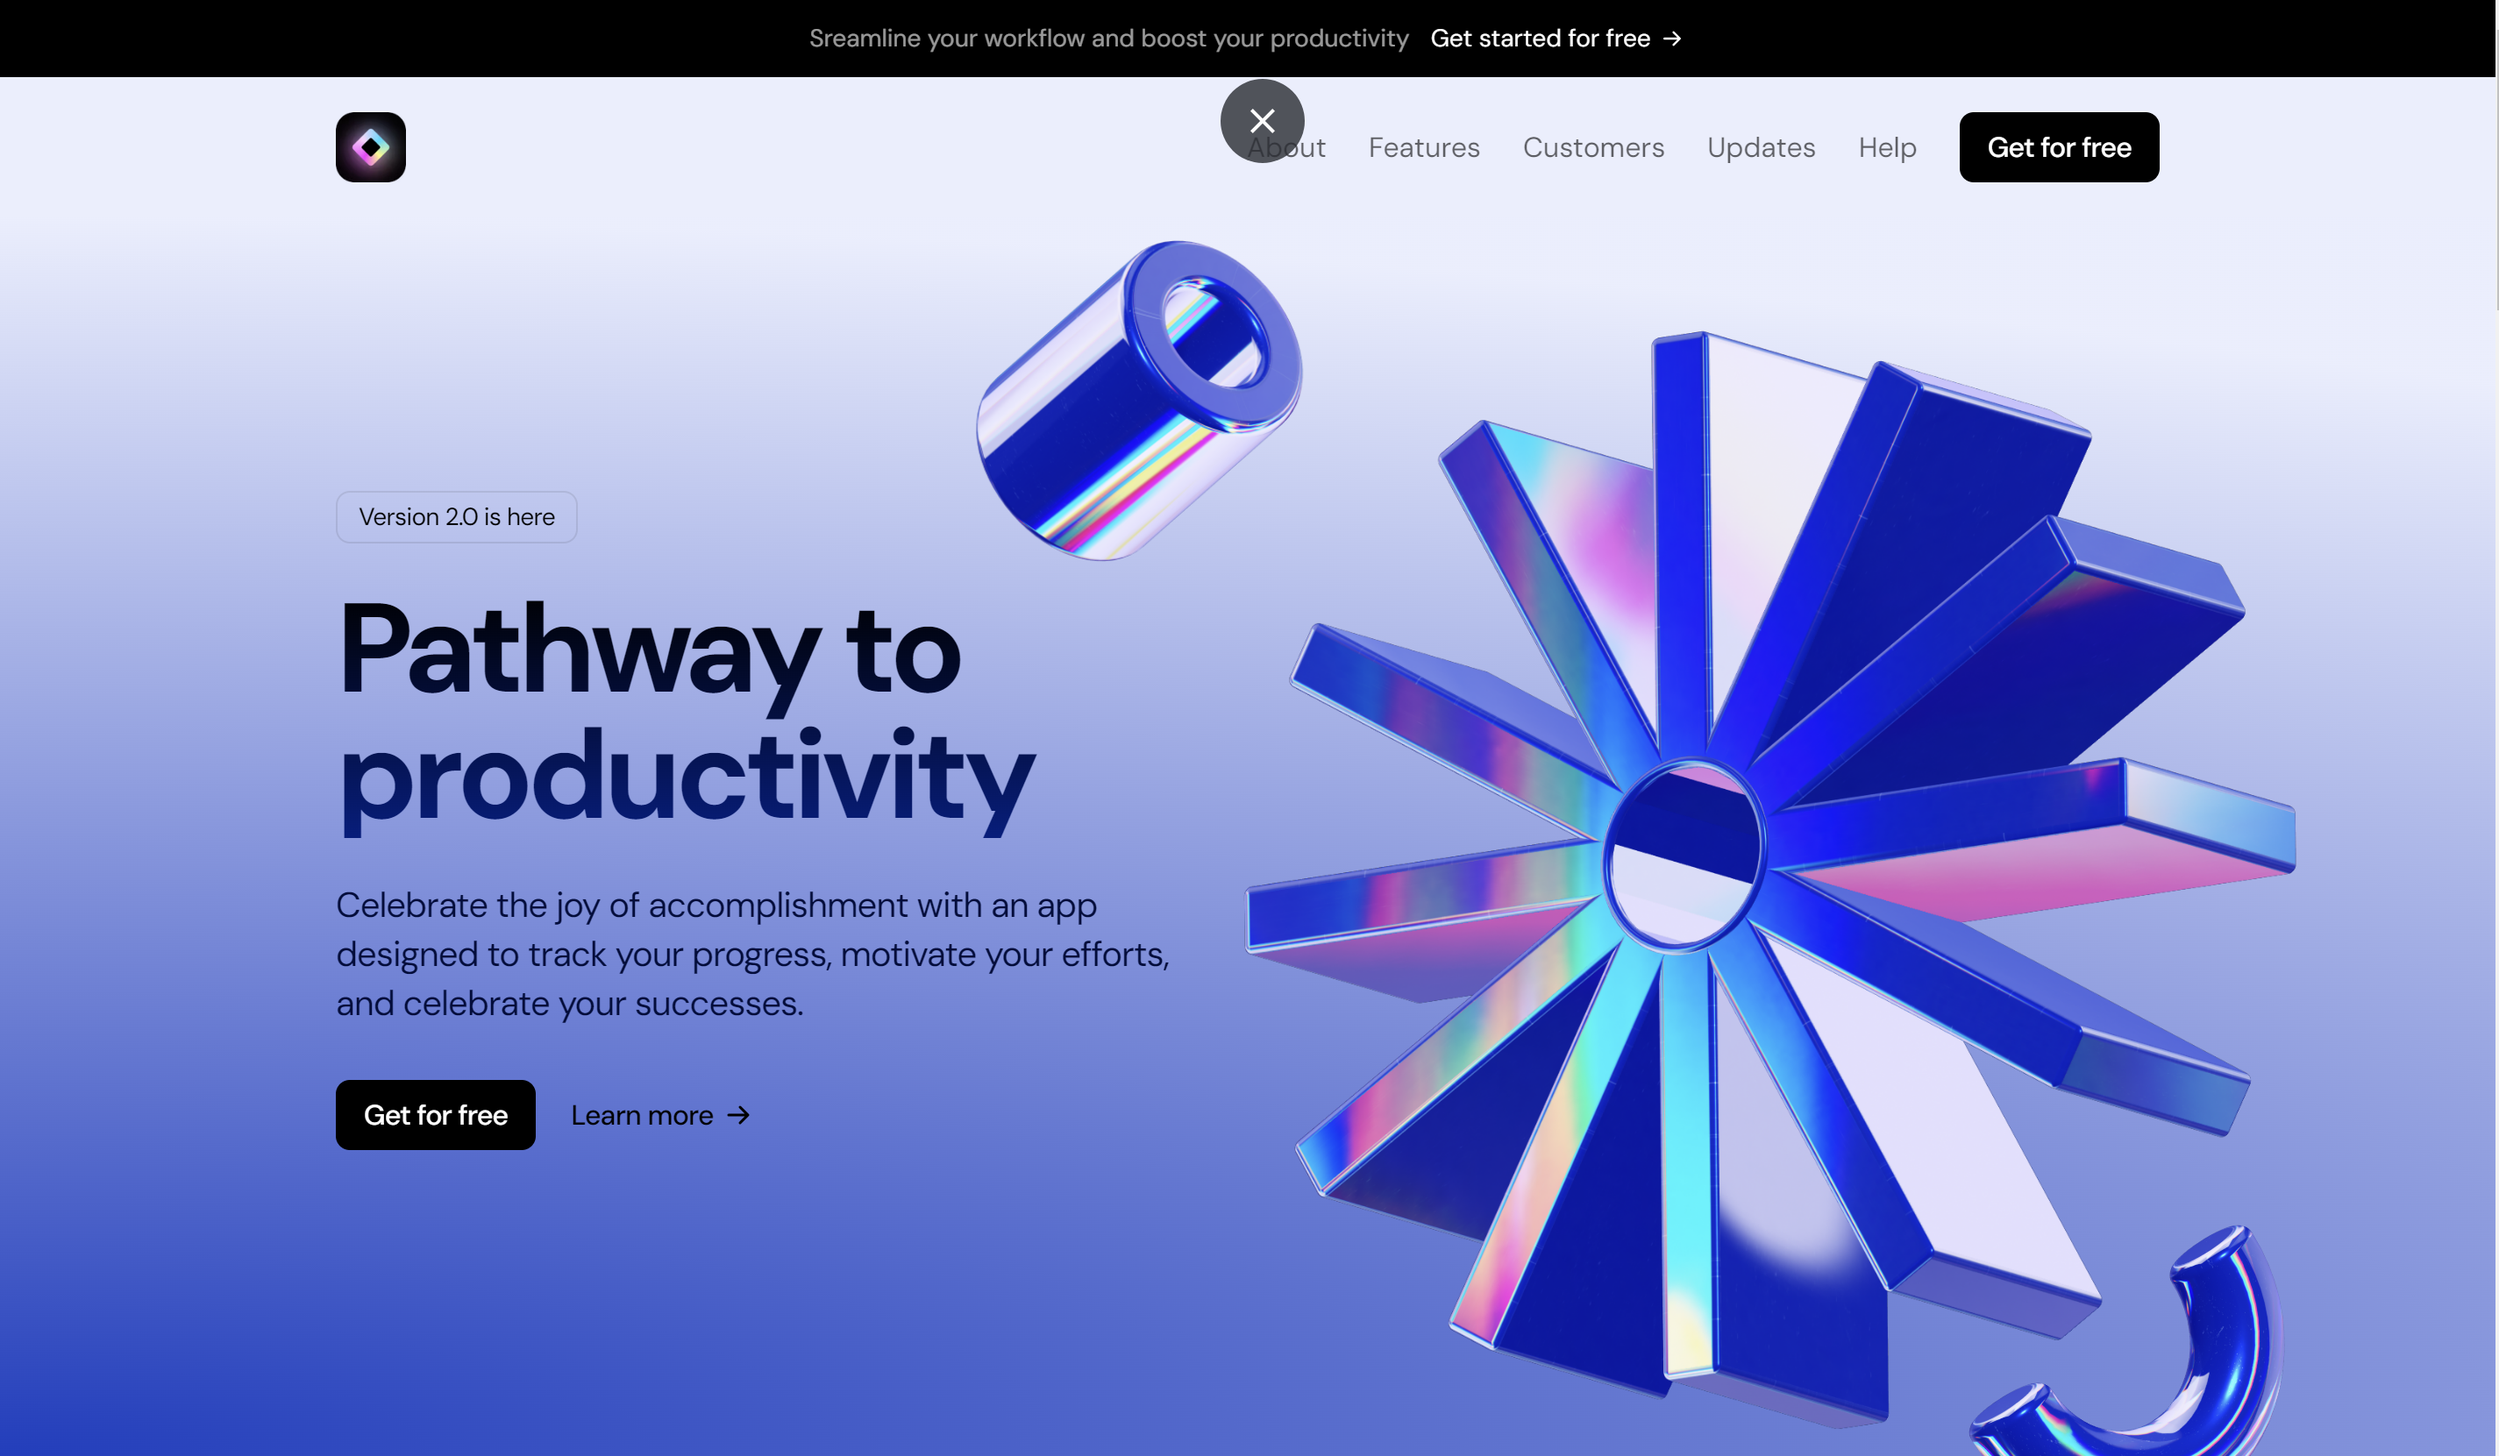
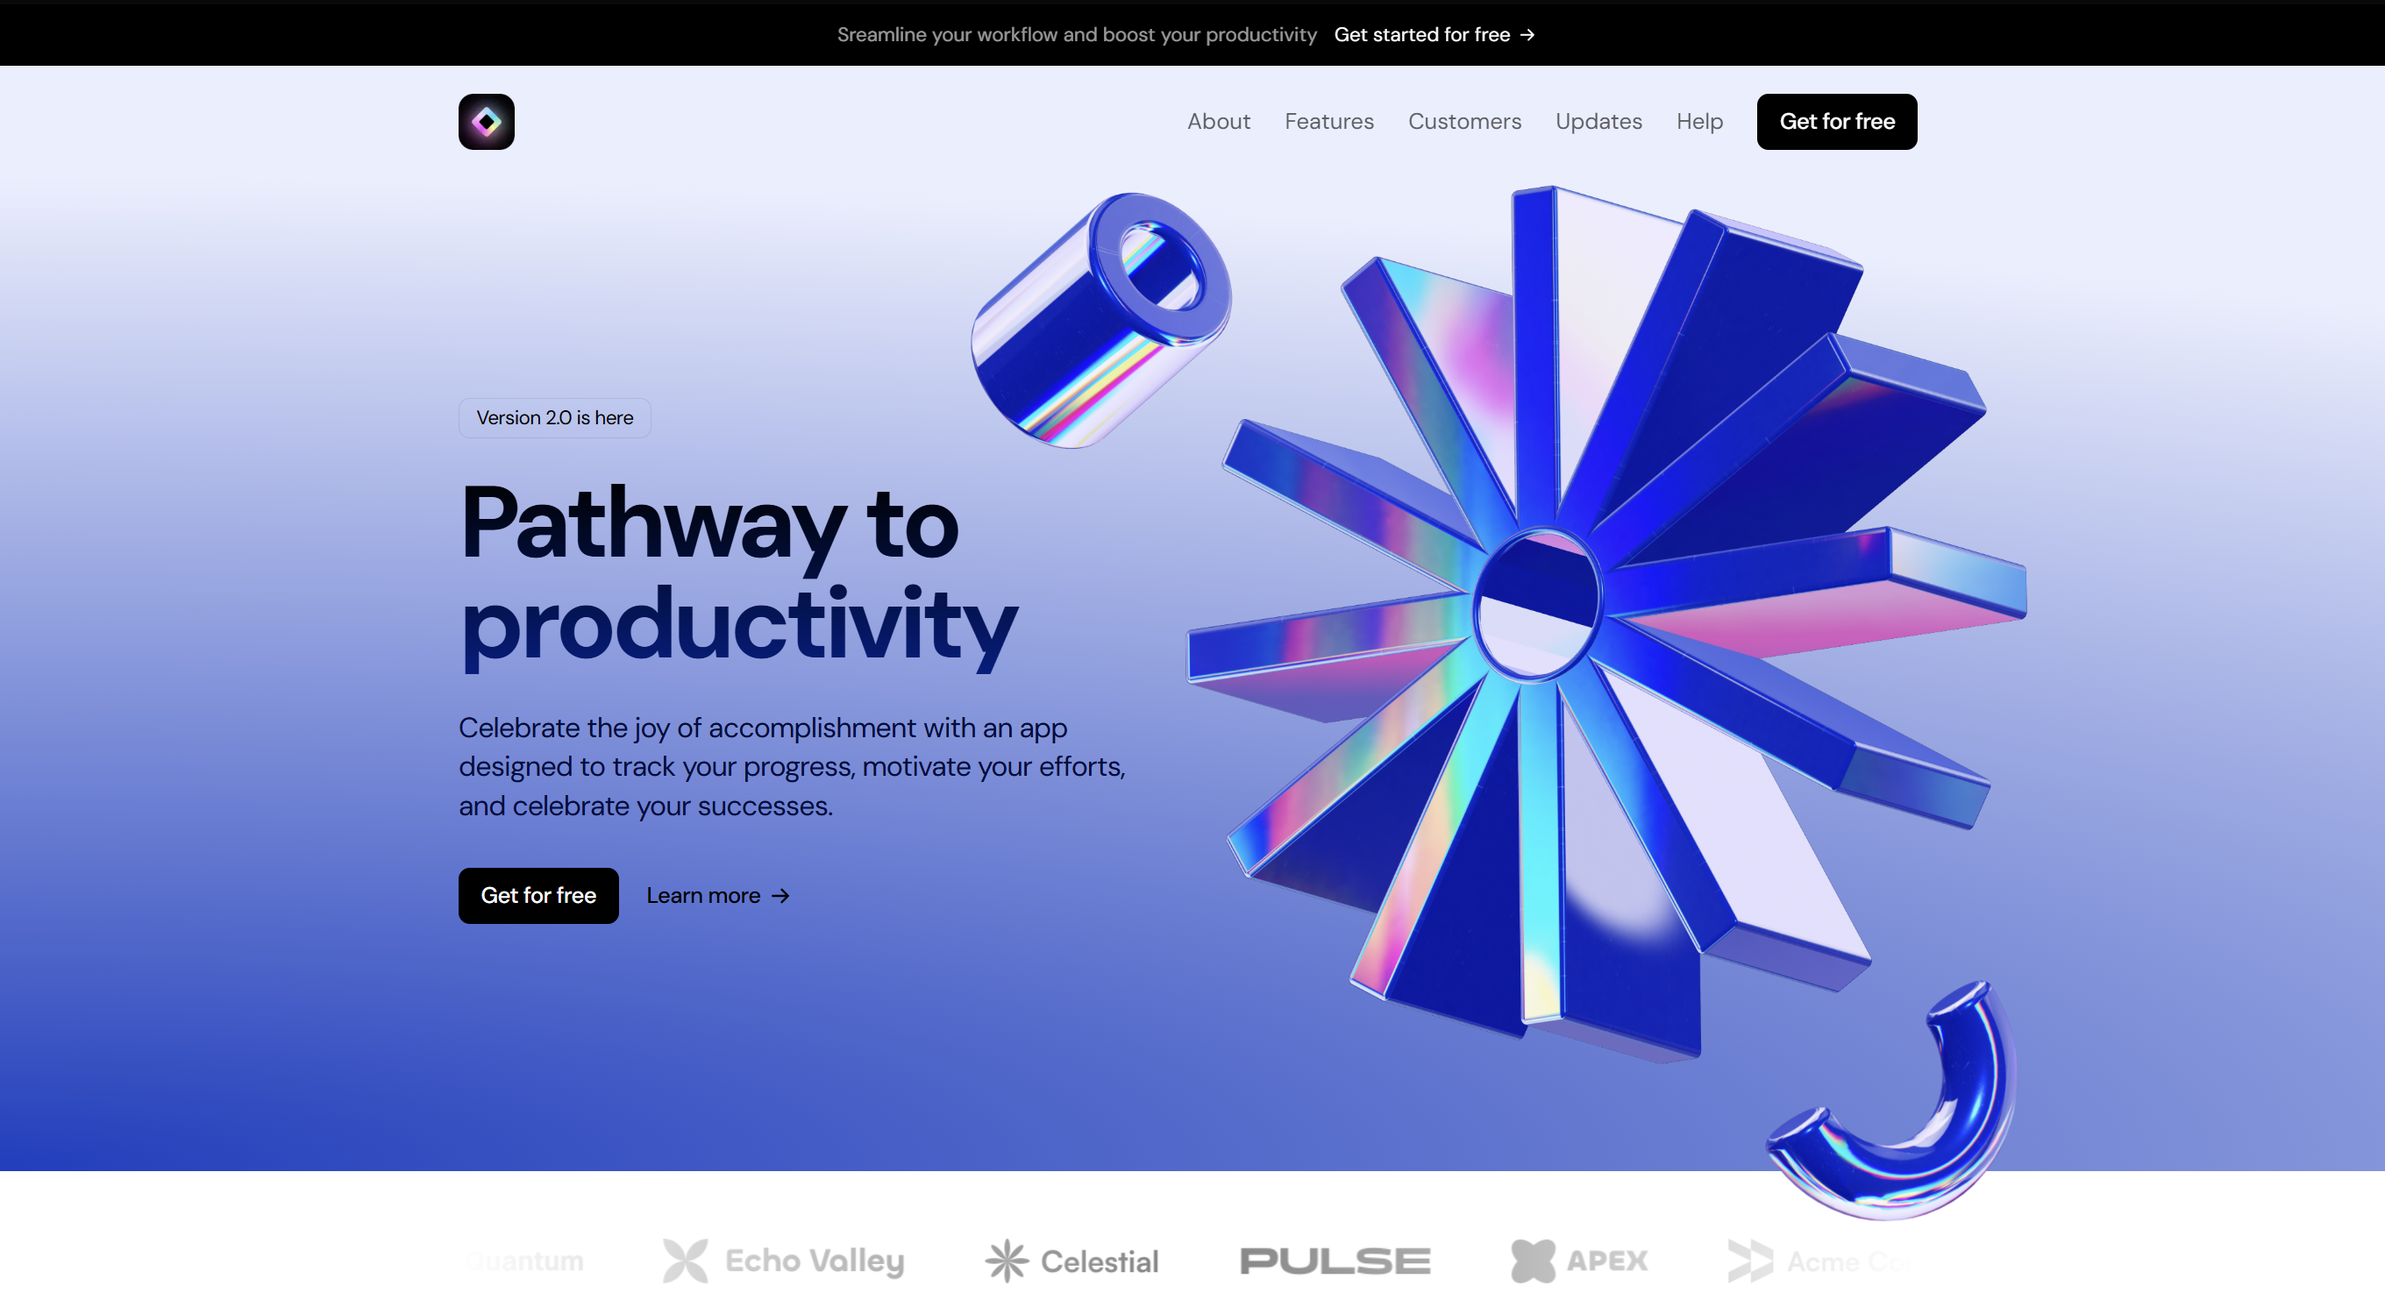
Configure Node 18 for Netlify and update portfolio content

diff --git a/src/components/sections/about.js b/src/components/sections/about.js
@@ -127,7 +127,7 @@ const About = () => {
     sr.reveal(revealContainer.current, srConfig());
   }, []);
 
-  const skills = ['JavaScript (ES6+)', 'TypeScript', 'React', 'Node.js', 'WordPress'];
+  const skills = ['JavaScript (ES6+)', 'TypeScript', 'React', 'Node.js', 'Next.js', 'Python'];
 
   return (
     <StyledAboutSection id="about" ref={revealContainer}>
@@ -145,7 +145,7 @@ const About = () => {
             <p>
               Fast-forward to today, and I’ve had the privilege of working at{' '}
               <a href="https://www.teamit.uz//">Teamit academy</a>,{' '}
-              <a href="https://kitobland.uz/">a start-up</a>,{' '}
+              <a href="https://bandup.uz/">a start-up</a>,{' '}
               <a href="https://bizzone.uz/">a Bizzone group</a>, and also I had been working as a
               Project manager at sevelar projects. My main focus these days is building accessible,
               inclusive products and digital experiences at{' '}

diff --git a/src/components/sections/hero.js b/src/components/sections/hero.js
@@ -65,7 +65,7 @@ const Hero = () => {
   const four = (
     <>
       <p>
-        I’m a freelancer and a front-end engineer specializing in building (and occasionally
+        I’m a freelancer and a full-stack engineer specializing in building (and occasionally
         designing) exceptional digital experience
       </p>
     </>
